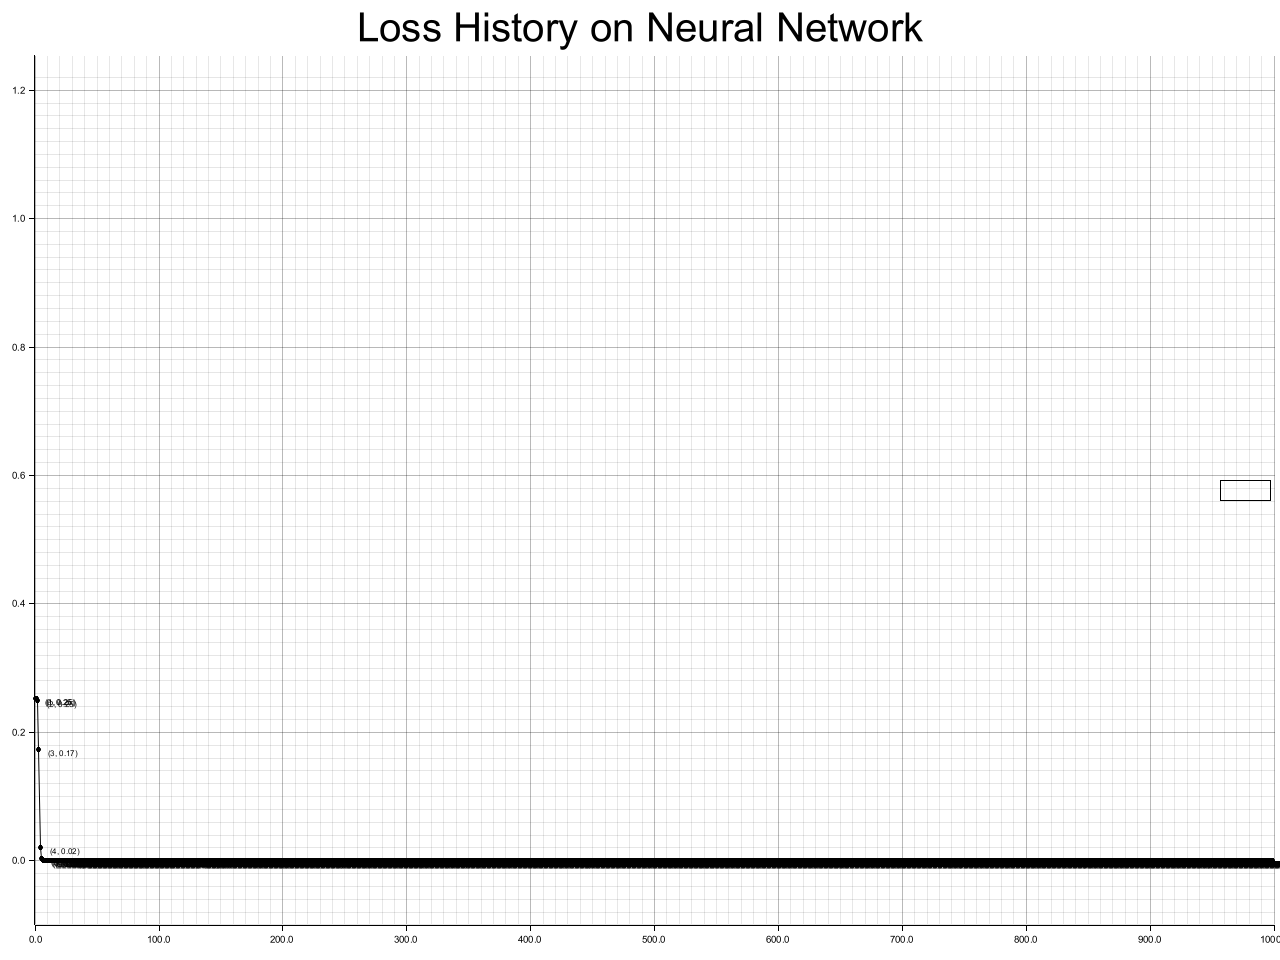
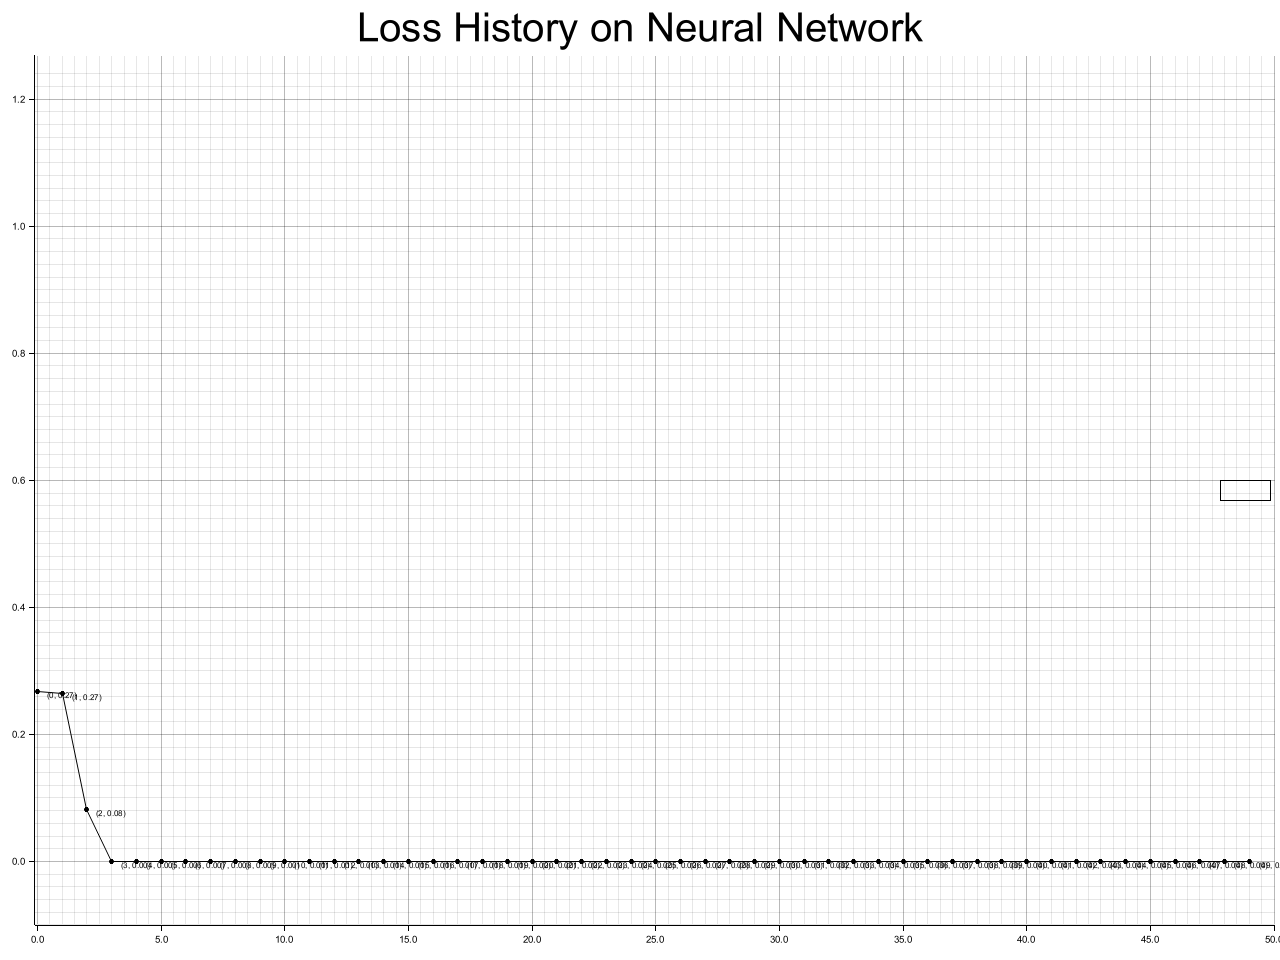
Removed some bloat

diff --git a/src/network/layer/dense.rs b/src/network/layer/dense.rs
@@ -14,12 +14,37 @@ pub struct Dense{
     loss: f32,
 
     pub activation_fn: Activations,
-    learning_rate: f32
+    learning_rate: f32,
+
+    beta1: f32,
+    beta2: f32,
+    epsilon: f32,
+    time: usize
 }
 
 impl Dense{
     pub fn new(layers: usize, layer_cols_before: usize, activation: Activations, learning_rate: f32) -> Dense{
-        Dense { loss: 1.0, weights: Matrix::new_random(layer_cols_before, layers), biases: Matrix::new_random(layer_cols_before, 1), data: Matrix::new_random(0, 0) , activation_fn: activation, learning_rate }
+        let mut res = Dense { 
+            loss: 1.0,
+            weights: Matrix::new_random(layer_cols_before, layers),
+            biases: Matrix::new_random(layer_cols_before, 1),
+            data: Matrix::new_random(0, 0),
+            activation_fn: activation,
+            learning_rate,
+            beta1: 0.0,
+            beta2: 0.0,
+            epsilon: 0.0,
+            time: 0
+        };
+        (res.beta1, res.beta2) = res.get_betas();
+        res.epsilon = res.get_epsilon();
+        res
+    }
+    fn get_betas(&self) -> (f32, f32){
+        (0.9, 0.999)
+    }
+    fn get_epsilon(&self) -> f32{
+        1e-10
     }
 }
 
@@ -43,7 +68,7 @@ impl Layer for Dense{
         let new_layer_prev = layer_prev.clone() + &(gradients_mat.clone() * &self.data.clone().transpose());
         let new_biases = layer_prev_bias.clone() + &gradients_mat.clone();
         
-        let errors_mat = layer_prev.clone().transpose() * &errors;
+        let errors_mat = layer_prev.clone().transpose() * errors;
 
         //set error of layer, should have something to do with possibly the MSE of errors_mat,
         //which we could call .to_param() on and iterate through like we do in the network accuracy

diff --git a/src/main.rs b/src/main.rs
@@ -1,24 +1,24 @@
 use std::error::Error;
 
-use triton_grow::network::{network::Network, activations::Activations, modes::Mode, layer::layers::LayerTypes, input::Input};
+use triton_grow::network::{network::Network, activations::Activations, layer::layers::LayerTypes, input::Input};
 use triton_grow::helper::data_vis;
 
 fn main() -> Result<(), Box<dyn Error>> {
     let inputs: Vec<Vec<f32>> = vec![vec![0.0,0.0],vec![1.0,0.0],vec![0.0,1.0], vec![1.0,1.0]];
     let outputs: Vec<Vec<f32>> = vec![vec![0.0],vec![1.0],vec![1.0], vec![0.0]];
 
-    let mut new_net = Network::new(2);
+    let mut new_net = Network::new(4);
 
-    new_net.add_layer(LayerTypes::DENSE(2, Activations::SIGMOID, 0.01));
-    new_net.add_layer(LayerTypes::DENSE(3, Activations::SIGMOID, 0.01));
-    new_net.add_layer(LayerTypes::DENSE(4, Activations::SIGMOID, 0.01));
-    new_net.add_layer(LayerTypes::DENSE(2, Activations::SIGMOID, 0.01));
-    new_net.add_layer(LayerTypes::DENSE(3, Activations::TANH, 0.01));
-    new_net.add_layer(LayerTypes::DENSE(1, Activations::SIGMOID, 0.01));
+    new_net.add_layer(LayerTypes::DENSE(2, Activations::SIGMOID, 0.1));
+    new_net.add_layer(LayerTypes::DENSE(3, Activations::SIGMOID, 0.1));
+    new_net.add_layer(LayerTypes::DENSE(4, Activations::SIGMOID, 0.1));
+    new_net.add_layer(LayerTypes::DENSE(2, Activations::SIGMOID, 0.1));
+    new_net.add_layer(LayerTypes::DENSE(3, Activations::TANH, 0.1));
+    new_net.add_layer(LayerTypes::DENSE(1, Activations::SIGMOID, 0.1));
 
     new_net.compile();
 
-    new_net.fit(inputs, outputs, 1000);
+    new_net.fit(inputs, outputs, 50);
 
     //let mut new_net = Network::load("best_network.json");
     

diff --git a/src/network/matrix.rs b/src/network/matrix.rs
@@ -67,9 +67,56 @@ impl ops::Mul<&Matrix> for Matrix{
     }
 }
 
-impl Matrix{
+impl ops::Mul<f32> for Matrix {
+    type Output = Matrix;
+    fn mul(self, rhs: f32) -> Self::Output {
+        let mut res: Matrix = Matrix::new_empty(self.rows, self.columns);
+        for i in 0..self.rows{
+            for j in 0..self.columns{
+                res.data[i][j] = self.data[i][j] * rhs;
+            }
+        }
+        res
+    }
+}
 
-    fn new_empty(rows: usize, cols: usize) -> Matrix{
+impl ops::Div<f32> for Matrix {
+    type Output = Matrix;
+    fn div(self, rhs: f32) -> Self::Output {
+        let mut res: Matrix = Matrix::new_empty(self.rows, self.columns);
+        for i in 0..self.rows{
+            for j in 0..self.columns{
+                res.data[i][j] = self.data[i][j] / rhs;
+            }
+        }
+        res
+    }
+}
+
+impl ops::Div<Matrix> for &Matrix{
+    type Output = Matrix;
+    fn div(self, rhs: Matrix) -> Self::Output {
+        let mut res: Matrix = Matrix::new_empty(self.rows, self.columns);
+        for i in 0..self.rows{
+            for j in 0..self.columns{
+                res.data[i][j] = self.data[i][j] / rhs.data[i][j];
+            }
+        }
+        res
+    }
+}
+
+impl Matrix{
+    pub fn sqrt(&self) -> Matrix{
+        let mut res: Matrix = Matrix::new_empty(self.rows, self.columns);
+        for i in 0..self.rows{
+            for j in 0..self.columns{
+                res.data[i][j] = self.data[i][j].sqrt();
+            }
+        }
+        res
+    }
+    pub fn new_empty(rows: usize, cols: usize) -> Matrix{
         Matrix{
             rows: rows,
             columns: cols,

diff --git a/src/network/network.rs b/src/network/network.rs
@@ -1,5 +1,5 @@
 use super::layer::layers::{Layer, LayerTypes};
-use super::{matrix::Matrix, modes::Mode};
+use super::matrix::Matrix;
 use super::input::Input;
 use serde::{Serialize, Deserialize};
 
@@ -107,7 +107,7 @@ impl Network{
         if input_obj.shape().0 != self.layers[0].shape().1{
             panic!("Input shape does not match input layer shape \nInput: {:?}\nInput Layer:{:?}", input_obj.shape(), self.layers[0].shape());
         }
-
+        
         let mut data_at: Box<dyn Input> = Box::new(input_obj.to_param());
         for i in 0..self.layers.len(){
             data_at = self.layers[i].forward(&data_at);
@@ -198,6 +198,7 @@ impl Network{
                 }
             }
             self.loss_train.push(loss / (ITERATIONS_PER_EPOCH * train_out.len()) as f32);
+            
         }
         self.loss = self.loss_train[self.loss_train.len()-1];
         println!("Trained to a loss of {:.2}%", self.loss * 100.0);

diff --git a/src/network/mod.rs b/src/network/mod.rs
@@ -1,7 +1,5 @@
 pub mod matrix;
 pub mod matrix_flat;
-pub mod modes;
-pub mod helper;
 pub mod network;
 pub mod activations;
 pub mod input;
